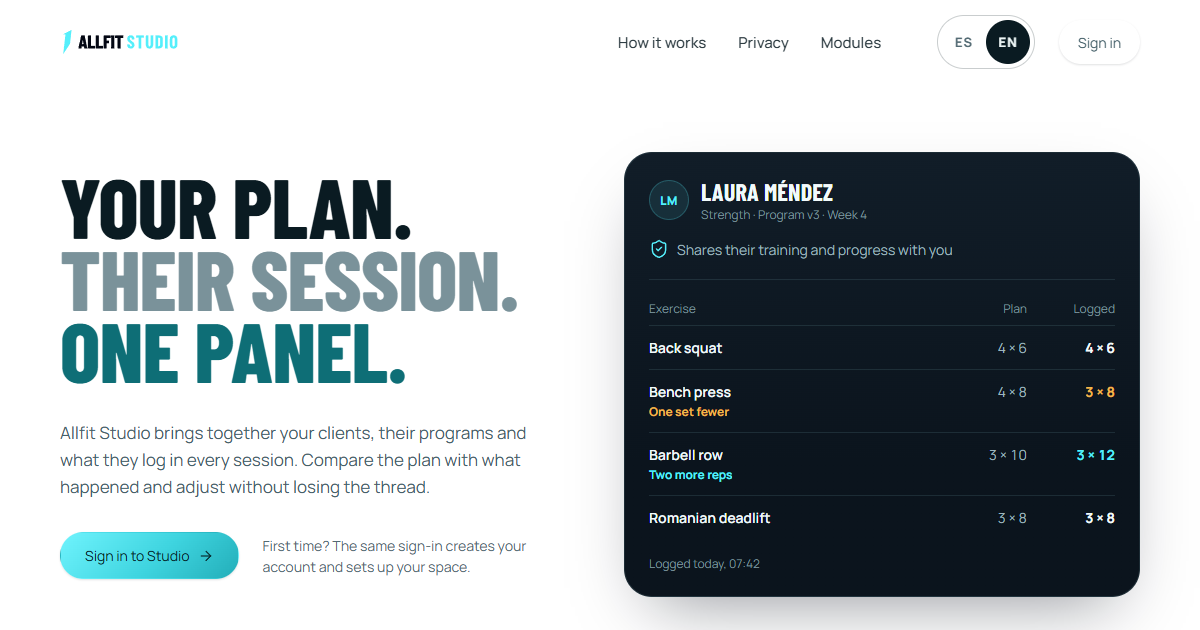
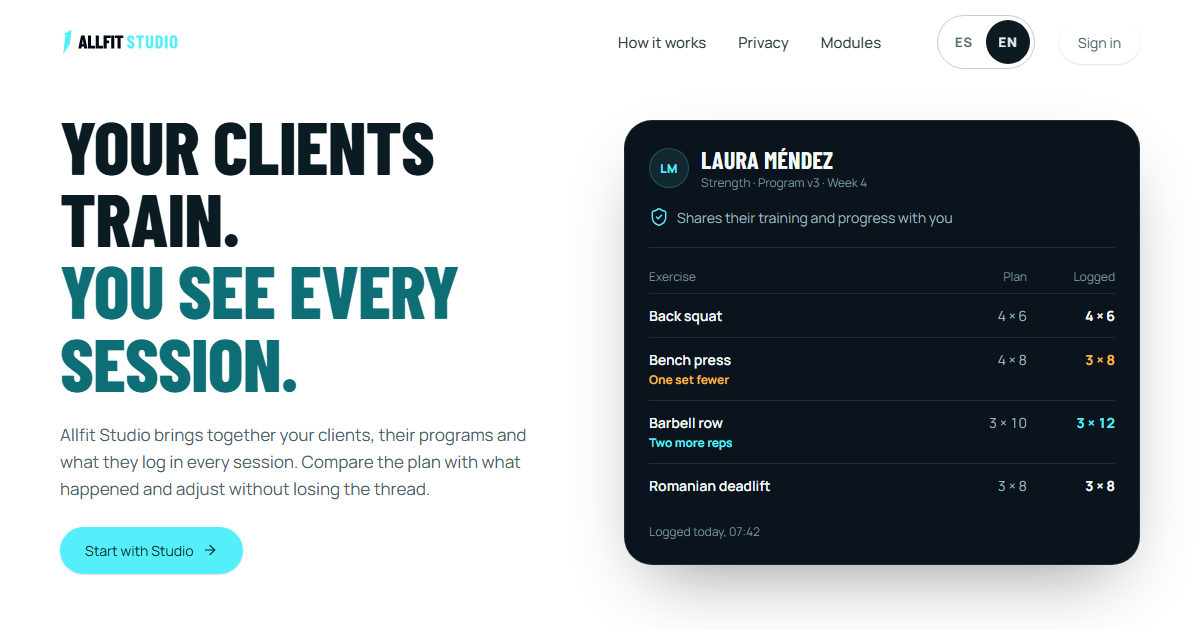
feat(studio-web): say who trains and who sees it in the hero
«Tu plan. Su sesión. Un solo panel.» read badly to the owner. The hero
now says «Tus clientes entrenan. Tú ves cada sesión.» («Your clients
train. You see every session.»), which is what the client's sheet
beside it shows. The first sentence is solid and the second takes the
accent, over four set lines.

Display titles move to a line height of 0.92 and their masks reach
0.1em above each line, as on the Space landing: at 0.86 the accent on
«SESIÓN» touched the line above. Four lines beside the sheet top out at
6.75rem, still above the section titles, and the hero's padding and gap
tighten so the way in stays above the consent bar at 1280x720. The
share images are recaptured with the new title.

diff --git a/apps/studio-web/src/app/studio.composition.css b/apps/studio-web/src/app/studio.composition.css
@@ -1716,7 +1716,9 @@
   margin: 0;
   font-family: var(--afo-font-family-display);
   font-weight: 800;
-  line-height: 0.86;
+  /* Barlow's accented capitals reach 0.885em: below 0.92 the accent on Ó, É
+     or Ú touches the line above. */
+  line-height: 0.92;
   letter-spacing: -0.01em;
   text-transform: uppercase;
   text-wrap: balance;
@@ -1732,12 +1734,13 @@
   font-size: clamp(3rem, 6vw, 5.25rem);
 }
 
-/* Each line rises out of its own mask, as the Space titles do. */
+/* Each line rises out of its own mask, as the Space titles do. The mask reaches
+   above the line, without moving it, so the accents on capitals are never cut. */
 [data-studio-display-line] {
   display: block;
   overflow: clip;
-  padding-block-end: 0.05em;
-  margin-block-end: -0.05em;
+  padding-block: 0.1em 0.05em;
+  margin-block: -0.1em -0.05em;
 }
 
 [data-studio-display-line] > span {
@@ -1805,8 +1808,9 @@
 /* ------------------------------------------------------------------ hero */
 
 [data-studio-hero] {
-  /* Clears the fixed 5.25rem header with room to spare. */
-  padding-block: clamp(8rem, 17vh, 10rem) clamp(var(--afo-space-20), 9vw, 8.5rem);
+  /* Clears the fixed 5.25rem header with room to spare, and no more: the way in
+     has to stay above the consent bar at 1280x720. */
+  padding-block: clamp(7rem, 15vh, 10rem) clamp(var(--afo-space-20), 9vw, 8.5rem);
   overflow: clip;
 }
 
@@ -1818,7 +1822,7 @@
 
 [data-studio-hero-copy] {
   display: grid;
-  gap: var(--afo-space-8);
+  gap: var(--afo-space-6);
   justify-items: start;
 }
 
@@ -2604,6 +2608,10 @@
     animation-delay: 220ms;
   }
 
+  [data-studio-display-line][data-line='3'] > span {
+    animation-delay: 330ms;
+  }
+
   [data-studio-sheet-row][data-row='1']
     :is([data-studio-sheet-logged], [data-studio-sheet-change]) {
     animation-delay: 1340ms;
@@ -2692,7 +2700,8 @@
   }
 
   [data-studio-display='hero'] {
-    font-size: clamp(4.5rem, 7vw, 7.25rem);
+    /* Four lines beside the sheet: still a step above the section titles. */
+    font-size: clamp(4.5rem, 6.2vw, 6.75rem);
   }
 
   [data-studio-steps] {

diff --git a/apps/studio-web/e2e/landing-entry.spec.ts b/apps/studio-web/e2e/landing-entry.spec.ts
@@ -27,7 +27,7 @@ test('an anonymous visit reads nothing from the API', async ({ page }) => {
   await installStudioApiMock(page, fixture)
 
   await page.goto('/es')
-  await expect(page.getByRole('heading', { level: 1, name: /Tu plan/ })).toBeVisible()
+  await expect(page.getByRole('heading', { level: 1, name: /Tus clientes/ })).toBeVisible()
   // A late bootstrap would show up here; idle is when its absence means something.
   await page.waitForLoadState('networkidle')
 
@@ -63,7 +63,7 @@ test('a signed-in browser enters its workspace without the provider', async ({ p
 
   await page.goto('/es')
   // Holding a session does not move anybody off the landing on its own.
-  await expect(page.getByRole('heading', { level: 1, name: /Tu plan/ })).toBeVisible()
+  await expect(page.getByRole('heading', { level: 1, name: /Tus clientes/ })).toBeVisible()
   await expect(page).toHaveURL('/es')
 
   await page.getByRole('link', { name: 'Empezar con Studio' }).first().click()
@@ -219,7 +219,7 @@ test.describe('languages', () => {
       await page.goto('/en')
 
       await expect(page.locator('html')).toHaveAttribute('lang', 'en')
-      await expect(page.getByRole('heading', { level: 1, name: /Your plan/ })).toBeVisible()
+      await expect(page.getByRole('heading', { level: 1, name: /Your clients/ })).toBeVisible()
       await expect(page.getByRole('link', { name: 'Start with Studio' }).first()).toHaveAttribute(
         'href',
         '/app',
@@ -241,7 +241,7 @@ test.describe('languages', () => {
 
     await expect(page).toHaveURL('/en')
     await expect(page.locator('html')).toHaveAttribute('lang', 'en')
-    await expect(page.getByRole('heading', { level: 1, name: /Your plan/ })).toBeVisible()
+    await expect(page.getByRole('heading', { level: 1, name: /Your clients/ })).toBeVisible()
   })
 
   // The API knows no language: it returns every close to `/`.

diff --git a/apps/studio-web/src/content/en.ts b/apps/studio-web/src/content/en.ts
@@ -8,7 +8,7 @@ export const en: Dictionary = {
     description:
       'Bring your clients, their training programs and every session they log into one panel. For personal trainers, studios and gyms.',
     shareImageAlt:
-      'Allfit Studio’s front page: “Your plan. Their session. One panel.”, beside a client’s sheet comparing what was planned with what was logged.',
+      'Allfit Studio’s front page: “Your clients train. You see every session.”, beside a client’s sheet comparing what was planned with what was logged.',
   },
   nav: {
     label: 'Main',
@@ -27,7 +27,7 @@ export const en: Dictionary = {
       'We could not confirm the whole remote sign-out. If you sign in again, complete the access with the identity provider once more.',
   },
   hero: {
-    title: ['Your plan.', 'Their session.', 'One panel.'],
+    title: ['Your clients', 'train.', 'You see every', 'session.'],
     lead: 'Allfit Studio brings together your clients, their programs and what they log in every session. Compare the plan with what happened and adjust without losing the thread.',
     cta: 'Start with Studio',
     note: 'Already have an account? The same button signs you in.',

diff --git a/apps/studio-web/src/content/es.ts b/apps/studio-web/src/content/es.ts
@@ -15,7 +15,7 @@ export const es = {
     description:
       'Reúne a tus clientes, sus programas de entrenamiento y cada sesión que registran en un solo panel. Para entrenadores personales, estudios y gimnasios.',
     shareImageAlt:
-      'Portada de Allfit Studio: «Tu plan. Su sesión. Un solo panel.», junto a la ficha de una persona que compara lo planeado con lo que registró.',
+      'Portada de Allfit Studio: «Tus clientes entrenan. Tú ves cada sesión.», junto a la ficha de una persona que compara lo planeado con lo que registró.',
   },
   nav: {
     label: 'Principal',
@@ -34,7 +34,7 @@ export const es = {
       'No pudimos confirmar todo el cierre remoto. Si vuelves a entrar, completa de nuevo el acceso con el proveedor de identidad.',
   },
   hero: {
-    title: ['Tu plan.', 'Su sesión.', 'Un solo panel.'],
+    title: ['Tus clientes', 'entrenan.', 'Tú ves cada', 'sesión.'],
     lead: 'Allfit Studio reúne a tus clientes, sus programas y lo que registran en cada sesión. Comparas el plan con lo que pasó y ajustas sin perder el hilo.',
     cta: 'Empezar con Studio',
     note: '¿Ya tienes cuenta? Con el mismo botón entras.',

diff --git a/apps/studio-web/e2e/first-paint.spec.ts b/apps/studio-web/e2e/first-paint.spec.ts
@@ -43,7 +43,7 @@ test.describe('server-rendered first paint', () => {
   test('paints the landing itself rather than an empty frame', async ({ page }) => {
     await page.goto('/es')
 
-    await expect(page.getByRole('heading', { level: 1, name: /Tu plan/ })).toBeVisible()
+    await expect(page.getByRole('heading', { level: 1, name: /Tus clientes/ })).toBeVisible()
     await expect(page.getByRole('link', { name: 'Empezar con Studio' }).first()).toHaveAttribute(
       'href',
       '/app',

diff --git a/apps/studio-web/src/components/studio-landing.tsx b/apps/studio-web/src/components/studio-landing.tsx
@@ -345,7 +345,7 @@ export function StudioLanding({ locale, copy }: { locale: Locale; copy: Dictiona
                 as="h1"
                 id="studio-landing-title"
                 lines={copy.hero.title}
-                tones={['solid', 'ghost', 'accent']}
+                tones={['solid', 'solid', 'accent', 'accent']}
               />
               <p data-studio-lead>{copy.hero.lead}</p>
               <div data-studio-actions>
